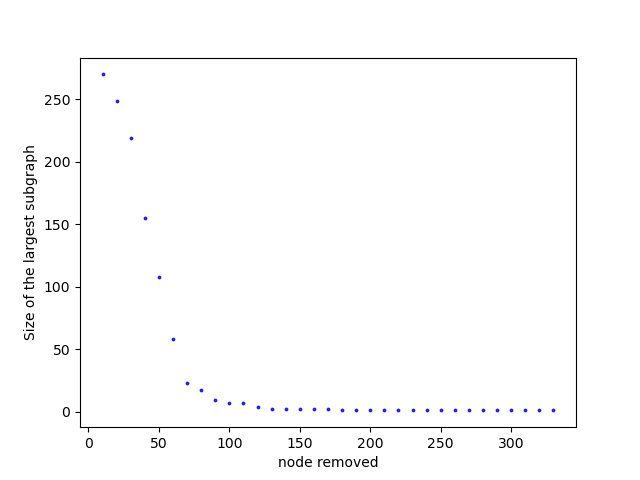
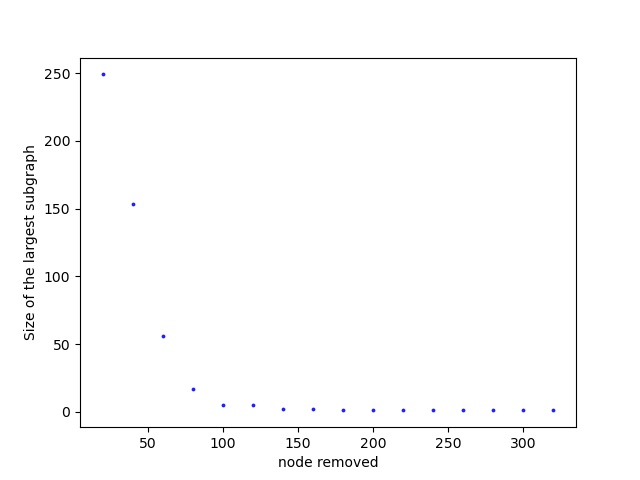
fix: pow-law visualization

diff --git a/5f57855a31279/index.html b/5f57855a31279/index.html
@@ -784,7 +784,7 @@
             xAxis: {
                 type: 'category',
                 boundaryGap: false,
-                data: [20, 40, 60, 80, 100, 120, 140, 160, 180, 200, 220, 240, 260, 280, 300, 320, 340, 360]
+                data: [1, 2, 3, 4, 5, 6, 7, 8, 9, 10, 11, 12, 13, 14, 15, 16, 17, 18, 19, 20, 21, 22, 23, 24, 25, 26, 27, 28, 29, 30, 31, 32, 33, 34, 35, 36, 37, 38, 39, 40, 41, 42, 43, 44, 45, 46, 47, 48, 49, 50, 51, 52, 53, 54, 55, 56, 57, 58, 59, 60, 61, 62, 63, 64, 65, 66, 67, 68, 69, 70, 71, 72, 73, 74, 75, 76, 77, 78, 79, 80, 81, 82, 83, 84, 85, 86, 87, 88, 89, 90, 91, 92, 93, 94, 95, 96, 97, 98, 99, 100, 101, 102, 103, 104, 105, 106, 107, 108, 109, 110, 111, 112, 113, 114, 115, 116, 117, 118, 119, 120, 121, 122, 123, 124, 125, 126, 127, 128, 129, 130, 131, 132, 133, 134, 135, 136, 137, 138, 139, 140, 141, 142, 143, 144, 145, 146, 147, 148, 149, 150, 151, 152, 153, 154, 155, 156, 157, 158, 159, 160, 161, 162, 163, 164, 165, 166, 167, 168, 169, 170, 171, 172, 173, 174, 175, 176, 177, 178, 179, 180, 181, 182, 183, 184, 185, 186, 187, 188, 189, 190, 191, 192, 193, 194, 195, 196, 197, 198, 199, 200, 201, 202, 203, 204, 205, 206, 207, 208, 209, 210, 211, 212, 213, 214, 215, 216, 217, 218, 219, 220, 221, 222, 223, 224, 225, 226, 227, 228, 229, 230, 231, 232, 233, 234, 235, 236, 237, 238, 239, 240, 241, 242, 243, 244, 245, 246, 247, 248, 249, 250, 251, 252, 253, 254, 255, 256, 257, 258, 259, 260, 261, 262, 263, 264, 265, 266, 267, 268, 269, 270, 271, 272, 273, 274, 275, 276, 277, 278, 279, 280, 281, 282, 283, 284, 285, 286, 287, 288, 289, 290, 291, 292, 293, 294, 295, 296, 297, 298, 299, 300, 301, 302, 303, 304, 305, 306, 307, 308, 309, 310, 311, 312, 313, 314, 315, 316, 317, 318, 319, 320, 321, 322, 323, 324, 325, 326, 327, 328, 329, 330, 331]
             },
             yAxis: {
                 type: 'value'
@@ -793,12 +793,12 @@
                 {
                     name: 'Random Attack',
                     type: 'line',
-                    data: [313, 293, 261, 242, 220, 178, 167, 149, 127, 99, 81, 67, 53, 43, 29, 17, 9, 1]
+                    data: [331, 330, 329, 328, 327, 326, 325, 324, 323, 321, 318, 317, 316, 315, 314, 313, 312, 311, 310, 309, 308, 307, 306, 305, 293, 292, 291, 290, 289, 288, 287, 286, 286, 285, 284, 283, 282, 281, 280, 275, 274, 273, 272, 271, 270, 269, 268, 267, 266, 265, 264, 263, 262, 261, 260, 259, 258, 257, 256, 255, 254, 253, 252, 251, 250, 249, 249, 248, 247, 246, 245, 244, 243, 242, 241, 240, 239, 238, 237, 236, 235, 234, 234, 234, 233, 232, 231, 230, 229, 228, 227, 226, 226, 225, 224, 223, 222, 221, 220, 219, 218, 217, 205, 204, 203, 202, 201, 200, 199, 198, 197, 196, 195, 194, 193, 192, 191, 190, 189, 185, 184, 183, 182, 181, 180, 179, 178, 177, 171, 170, 169, 168, 167, 166, 165, 164, 163, 162, 161, 160, 160, 159, 158, 157, 156, 155, 154, 154, 153, 152, 151, 150, 150, 149, 149, 149, 148, 147, 146, 145, 144, 143, 142, 141, 140, 139, 138, 137, 136, 135, 135, 133, 133, 132, 131, 130, 129, 128, 127, 127, 127, 127, 127, 126, 125, 125, 124, 120, 119, 119, 118, 117, 116, 116, 114, 113, 111, 110, 109, 108, 107, 107, 106, 105, 104, 103, 102, 101, 100, 99, 99, 98, 97, 96, 95, 95, 92, 90, 89, 87, 87, 86, 85, 84, 83, 82, 81, 80, 79, 79, 78, 77, 77, 77, 73, 73, 72, 71, 70, 69, 69, 69, 68, 68, 67, 66, 65, 64, 63, 63, 62, 62, 61, 61, 61, 60, 60, 59, 59, 58, 57, 55, 54, 53, 52, 52, 48, 46, 45, 44, 43, 40, 40, 40, 39, 38, 37, 37, 36, 35, 35, 34, 34, 34, 33, 33, 32, 31, 30, 29, 29, 29, 29, 28, 27, 26, 25, 25, 24, 21, 21, 20, 19, 19, 18, 17, 16, 16, 16, 15, 13, 12, 11, 11, 11, 10, 10, 7, 6, 6, 6, 5, 3, 3, 3, 2, 1, 1, 1, 1, 1]
                 },
                 {
                     name: 'Intentional Attack',
                     type: 'line',
-                    data: [249, 153, 56, 17, 5, 5, 2, 2, 1, 1, 1, 1, 1, 1, 1, 1]
+                    data: [329, 314, 311, 304, 296, 289, 287, 281, 277, 270, 269, 268, 266, 262, 261, 257, 253, 251, 250, 246, 245, 242, 238, 230, 226, 223, 222, 221, 220, 182, 180, 179, 178, 176, 175, 175, 174, 172, 150, 148, 147, 132, 129, 126, 122, 120, 116, 116, 69, 69, 69, 69, 69, 69, 68, 67, 65, 37, 37, 37, 37, 36, 36, 35, 23, 23, 23, 23, 20, 20, 20, 17, 17, 17, 17, 17, 17, 17, 14, 14, 9, 9, 9, 9, 9, 9, 9, 9, 8, 8, 7, 7, 7, 7, 7, 7, 7, 7, 7, 7, 7, 7, 7, 7, 7, 7, 5, 4, 4, 4, 4, 4, 3, 3, 3, 3, 3, 2, 2, 2, 2, 2, 2, 2, 2, 2, 2, 2, 2, 2, 2, 2, 2, 2, 2, 2, 2, 2, 2, 2, 2, 2, 2, 2, 2, 2, 2, 2, 1, 1, 1, 1, 1, 1, 1, 1, 1, 1, 1, 1, 1, 1, 1, 1, 1, 1, 1, 1, 1, 1, 1, 1, 1, 1, 1, 1, 1, 1, 1, 1, 1, 1, 1, 1, 1, 1, 1, 1, 1, 1, 1, 1, 1, 1, 1, 1, 1, 1, 1, 1, 1, 1, 1, 1, 1, 1, 1, 1, 1, 1, 1, 1, 1, 1, 1, 1, 1, 1, 1, 1, 1, 1, 1, 1, 1, 1, 1, 1, 1, 1, 1, 1, 1, 1, 1, 1, 1, 1, 1, 1, 1, 1, 1, 1, 1, 1, 1, 1, 1, 1, 1, 1, 1, 1, 1, 1, 1, 1, 1, 1, 1, 1, 1, 1, 1, 1, 1, 1, 1, 1, 1, 1, 1, 1, 1, 1, 1, 1, 1, 1, 1, 1, 1, 1, 1, 1, 1, 1, 1, 1, 1, 1, 1, 1, 1, 1, 1, 1, 1, 1, 1, 1, 1, 1, 1, 1, 1, 1, 1, 1, 1, 1, 1, 1, 1, 1, 1, 1, 1, 1, 1, 1, 1, 1, 1, 1, 1, 1, 1, 1, 1]
                 }
             ]
         };
@@ -826,7 +826,7 @@
             xAxis: {
                 type: 'category',
                 boundaryGap: false,
-                data: [20, 40, 60, 80, 100, 120, 140, 160, 180, 200, 220, 240, 260, 280, 300, 320, 340, 360]
+                data: [1, 2, 3, 4, 5, 6, 7, 8, 9, 10, 11, 12, 13, 14, 15, 16, 17, 18, 19, 20, 21, 22, 23, 24, 25, 26, 27, 28, 29, 30, 31, 32, 33, 34, 35, 36, 37, 38, 39, 40, 41, 42, 43, 44, 45, 46, 47, 48, 49, 50, 51, 52, 53, 54, 55, 56, 57, 58, 59, 60, 61, 62, 63, 64, 65, 66, 67, 68, 69, 70, 71, 72, 73, 74, 75, 76, 77, 78, 79, 80, 81, 82, 83, 84, 85, 86, 87, 88, 89, 90, 91, 92, 93, 94, 95, 96, 97, 98, 99, 100, 101, 102, 103, 104, 105, 106, 107, 108, 109, 110, 111, 112, 113, 114, 115, 116, 117, 118, 119, 120, 121, 122, 123, 124, 125, 126, 127, 128, 129, 130, 131, 132, 133, 134, 135, 136, 137, 138, 139, 140, 141, 142, 143, 144, 145, 146, 147, 148, 149, 150, 151, 152, 153, 154, 155, 156, 157, 158, 159, 160, 161, 162, 163, 164, 165, 166, 167, 168, 169, 170, 171, 172, 173, 174, 175, 176, 177, 178, 179, 180, 181, 182, 183, 184, 185, 186, 187, 188, 189, 190, 191, 192, 193, 194, 195, 196, 197, 198, 199, 200, 201, 202, 203, 204, 205, 206, 207, 208, 209, 210, 211, 212, 213, 214, 215, 216, 217, 218, 219, 220, 221, 222, 223, 224, 225, 226, 227, 228, 229, 230, 231, 232, 233, 234, 235, 236, 237, 238, 239, 240, 241, 242, 243, 244, 245, 246, 247, 248, 249, 250, 251, 252, 253, 254, 255, 256, 257, 258, 259, 260, 261, 262, 263, 264, 265, 266, 267, 268, 269, 270, 271, 272, 273, 274, 275, 276, 277, 278, 279, 280, 281, 282, 283, 284, 285, 286, 287, 288, 289, 290, 291, 292, 293, 294, 295, 296, 297, 298, 299, 300, 301, 302, 303, 304, 305, 306, 307, 308, 309, 310, 311, 312, 313, 314, 315, 316, 317, 318, 319, 320, 321, 322, 323, 324, 325, 326, 327, 328, 329, 330, 331]
             },
             yAxis: {
                 type: 'value'
@@ -835,12 +835,12 @@
                 {
                     name: 'Random Attack',
                     type: 'line',
-                    data: [2.7566969771442613, 2.7827154144653794, 2.8159740642499265, 2.7967490826789203, 2.8121627231216273, 2.600710975687171, 2.60435754996032, 2.623526210774533, 2.5988001499812525, 2.629148629148629, 2.623456790123457, 2.5834464043419265, 2.7060957910014514, 2.4562569213732006, 2.4334975369458127, 2.463235294117647, 1.8055555555555556, 0]
+                    data: [2.737324910738808, 2.7385649811181727, 2.7378975461487136, 2.733068546281793, 2.7349393069548413, 2.7375365738555923, 2.7394301994301995, 2.738179872338799, 2.7383997077091706, 2.7352414330218067, 2.74856655357816, 2.7516272012139122, 2.752903355435001, 2.7521989687594783, 2.7513685110193116, 2.7510035225690177, 2.7423530381729737, 2.739570583964319, 2.736715732331141, 2.7363089984449207, 2.734971868522357, 2.7375827638330033, 2.7388406728811745, 2.736432269197584, 2.626139604469587, 2.628395236077767, 2.620713354662875, 2.6214055601956807, 2.6198577470203768, 2.6182491289198606, 2.6166272751638604, 2.6174457121825543, 2.6174457121825543, 2.6177662466024216, 2.6186980540486737, 2.6176477959050697, 2.612528709522728, 2.6119217081850534, 2.606989247311828, 2.6087856668878566, 2.6099569530226465, 2.6147920706744237, 2.613550032559149, 2.611944786114528, 2.61872504474735, 2.6210952671586307, 2.622197998770194, 2.626453774886655, 2.6240601503759398, 2.627930245854774, 2.630141721396474, 2.6296113545990187, 2.630429060279021, 2.6314470969643384, 2.634125334125334, 2.635628984466194, 2.639157843935692, 2.6424793287937742, 2.6435049019607844, 2.6422109001080747, 2.643895303600884, 2.6510446075663467, 2.650509074811864, 2.6535458167330677, 2.65574297188755, 2.6568532193289287, 2.6568532193289287, 2.6570131905445997, 2.662980152068727, 2.659598473535756, 2.65536968885915, 2.6540511367469475, 2.649695609291569, 2.6452796543328416, 2.646887966804979, 2.6497907949790793, 2.6546534931964416, 2.6625536290465552, 2.661231495387256, 2.660692390912369, 2.659319876341153, 2.6575327390778036, 2.6575327390778036, 2.6575327390778036, 2.6618321740417343, 2.660620988207195, 2.6503293807641635, 2.6510347446364153, 2.649659082203325, 2.64185794883685, 2.644926123737866, 2.6434218289085547, 2.6434218289085547, 2.6496031746031745, 2.647501601537476, 2.6480022623520383, 2.6465288818229995, 2.651254627725216, 2.648194271481943, 2.6495747978718946, 2.6511224791781167, 2.6495562382659155, 2.6035389765662362, 2.599053414469236, 2.598644100863288, 2.594946061770356, 2.5931840796019903, 2.590854271356784, 2.58646769199533, 2.584063990155361, 2.5809074898995132, 2.578283621140764, 2.5825535289452817, 2.580043801079002, 2.577396373056995, 2.5789703315881325, 2.5782860292091487, 2.578724589250905, 2.5795902285263987, 2.578907168037603, 2.5769779044903776, 2.578394283312316, 2.58417825268654, 2.5849600982197667, 2.587957790192427, 2.5936224970183916, 2.5954421380054593, 2.593220338983051, 2.7605091159270727, 2.761851722937696, 2.770639616793463, 2.7738095238095237, 2.7726715244210376, 2.75947426067908, 2.7730968218773095, 2.786248690707766, 2.7735363175035976, 2.7828387393604785, 2.758229813664596, 2.7583333333333333, 2.7583333333333333, 2.7634742456810764, 2.762879948399581, 2.761228156132615, 2.7435897435897436, 2.730289065772937, 2.724471606824548, 2.724471606824548, 2.7233402132782936, 2.6914430115022654, 2.6907726269315675, 2.691454138702461, 2.691454138702461, 2.677126791220751, 2.677126791220751, 2.677126791220751, 2.6787093215664646, 2.677196906159724, 2.6747283892300424, 2.6765325670498084, 2.674825174825175, 2.6735940116221806, 2.686744580960943, 2.685410334346505, 2.6867420349434736, 2.687519549577729, 2.684121442928171, 2.6910691283812795, 2.6882352941176473, 2.686898839137645, 2.686898839137645, 2.6679197994987467, 2.6679197994987467, 2.6495489243580845, 2.646388725778039, 2.639117471675611, 2.6363856589147288, 2.6311515748031495, 2.631546056742907, 2.631546056742907, 2.631546056742907, 2.631546056742907, 2.631546056742907, 2.6415238095238096, 2.6394838709677417, 2.6394838709677417, 2.641096249672174, 2.584593837535014, 2.5878080045577554, 2.5878080045577554, 2.584963059539331, 2.5773651635720602, 2.583208395802099, 2.583208395802099, 2.5559695699425555, 2.5534134007585334, 2.5235053235053235, 2.525771476230192, 2.5336391437308867, 2.5384215991692627, 2.531652265914301, 2.531652265914301, 2.5275831087151843, 2.5294871794871794, 2.5263256161314414, 2.526936988387588, 2.5230052417006408, 2.512079207920792, 2.5206060606060605, 2.521129663986807, 2.521129663986807, 2.5095729013254786, 2.5060137457044673, 2.512061403508772, 2.508174692049272, 2.508174692049272, 2.5052556139512663, 2.4574282147315856, 2.4570990806945865, 2.426623897353649, 2.426623897353649, 2.4265389876880983, 2.4383753501400562, 2.4440619621342514, 2.452835733176609, 2.417946401686239, 2.401851851851852, 2.400632911392405, 2.394027913015255, 2.394027913015255, 2.387279387279387, 2.377306903622693, 2.377306903622693, 2.377306903622693, 2.375951293759513, 2.375951293759513, 2.3794992175273864, 2.37102615694165, 2.3697722567287784, 2.372549019607843, 2.372549019607843, 2.372549019607843, 2.3617208077260754, 2.3617208077260754, 2.3550429669832655, 2.372027972027972, 2.3826923076923077, 2.3586309523809526, 2.3538146441372247, 2.3538146441372247, 2.3278688524590163, 2.3278688524590163, 2.3327868852459015, 2.3327868852459015, 2.3327868852459015, 2.3180790960451976, 2.3180790960451976, 2.3173582700175337, 2.3173582700175337, 2.3290986085904417, 2.31265664160401, 2.2511784511784514, 2.2480782669461914, 2.2496371552975325, 2.23604826546003, 2.23604826546003, 2.202127659574468, 2.217391304347826, 2.2151515151515153, 2.207188160676533, 2.1915836101882613, 2.1525641025641025, 2.1525641025641025, 2.1525641025641025, 2.1578947368421053, 2.1664295874822193, 2.144144144144144, 2.144144144144144, 2.1666666666666665, 2.183193277310924, 2.183193277310924, 2.180035650623886, 2.180035650623886, 2.180035650623886, 2.1818181818181817, 2.1818181818181817, 2.1754032258064515, 2.1591397849462366, 2.1241379310344826, 2.184729064039409, 2.184729064039409, 2.184729064039409, 2.184729064039409, 2.201058201058201, 2.156695156695157, 2.1507692307692308, 2.1433333333333335, 2.1433333333333335, 2.1159420289855073, 1.9904761904761905, 1.9904761904761905, 1.9157894736842105, 1.894736842105263, 1.894736842105263, 1.908496732026144, 1.8823529411764706, 1.9333333333333333, 1.9333333333333333, 1.9333333333333333, 1.9142857142857144, 1.7820512820512822, 1.7272727272727273, 1.8, 1.8, 1.8, 1.7333333333333334, 1.7333333333333334, 1.5714285714285714, 1.5333333333333334, 1.5333333333333334, 1.5333333333333334, 1.6, 1.3333333333333333, 1.3333333333333333, 1.3333333333333333, 1.0, 0, 0, 0, 0, 0]
                 },
                 {
                     name: 'Intentional Attack',
                     type: 'line',
-                    data: [4.21693224510947, 6.643274853801169, 6.514935064935065, 3.801470588235294, 2.0, 2.0, 1.0, 1.0, 0, 0, 0, 0, 0, 0, 0, 0]
+                    data: [2.8456705463711174, 2.8759691499969477, 2.91083912457214, 2.935339586590238, 3.040815391662849, 3.0800413302575933, 3.1285543724568114, 3.1857142857142855, 3.2737927065348194, 3.331488365689109, 3.345059091161294, 3.4793727989267147, 3.506085969641084, 3.537685355795385, 3.573091659298556, 3.7266536964980546, 3.8457556935817805, 4.14594422310757, 4.194024096385542, 4.202190144350423, 4.225794580127133, 4.236651692328795, 4.269155763571251, 4.67624833871274, 4.738721730580138, 4.9474003151133195, 5.010068892421834, 5.096215549156725, 5.149896222498962, 4.72472831036367, 4.8283054003724395, 4.971125478626577, 5.250491969783534, 5.38038961038961, 6.01064039408867, 6.01064039408867, 6.172878878479835, 6.4209166326669385, 6.285369127516779, 6.929950358521787, 7.05302394930575, 6.721374045801527, 7.2046996124031, 7.160380952380953, 7.407261888632976, 7.847478991596638, 7.6140929535232384, 7.6140929535232384, 6.069053708439898, 6.069053708439898, 6.069053708439898, 6.069053708439898, 6.069053708439898, 6.069053708439898, 6.492537313432836, 6.498869289914066, 7.258173076923077, 6.123123123123123, 6.123123123123123, 6.123123123123123, 6.123123123123123, 6.534920634920635, 6.534920634920635, 6.650420168067227, 5.146245059288537, 5.146245059288537, 5.146245059288537, 5.146245059288537, 4.421052631578948, 4.421052631578948, 4.421052631578948, 3.801470588235294, 3.801470588235294, 3.801470588235294, 3.801470588235294, 3.801470588235294, 3.801470588235294, 3.801470588235294, 3.6043956043956045, 3.6043956043956045, 2.6666666666666665, 2.6666666666666665, 2.6666666666666665, 2.8333333333333335, 2.8333333333333335, 2.8333333333333335, 2.8333333333333335, 2.8333333333333335, 2.7142857142857144, 2.7142857142857144, 2.6666666666666665, 2.6666666666666665, 2.6666666666666665, 2.6666666666666665, 2.6666666666666665, 2.6666666666666665, 2.6666666666666665, 2.6666666666666665, 2.6666666666666665, 2.6666666666666665, 2.6666666666666665, 2.6666666666666665, 2.6666666666666665, 2.6666666666666665, 2.6666666666666665, 2.6666666666666665, 2.0, 1.6666666666666667, 1.6666666666666667, 1.6666666666666667, 1.6666666666666667, 1.6666666666666667, 1.3333333333333333, 1.3333333333333333, 1.3333333333333333, 1.3333333333333333, 1.3333333333333333, 1.0, 1.0, 1.0, 1.0, 1.0, 1.0, 1.0, 1.0, 1.0, 1.0, 1.0, 1.0, 1.0, 1.0, 1.0, 1.0, 1.0, 1.0, 1.0, 1.0, 1.0, 1.0, 1.0, 1.0, 1.0, 1.0, 1.0, 1.0, 1.0, 1.0, 1.0, 0, 0, 0, 0, 0, 0, 0, 0, 0, 0, 0, 0, 0, 0, 0, 0, 0, 0, 0, 0, 0, 0, 0, 0, 0, 0, 0, 0, 0, 0, 0, 0, 0, 0, 0, 0, 0, 0, 0, 0, 0, 0, 0, 0, 0, 0, 0, 0, 0, 0, 0, 0, 0, 0, 0, 0, 0, 0, 0, 0, 0, 0, 0, 0, 0, 0, 0, 0, 0, 0, 0, 0, 0, 0, 0, 0, 0, 0, 0, 0, 0, 0, 0, 0, 0, 0, 0, 0, 0, 0, 0, 0, 0, 0, 0, 0, 0, 0, 0, 0, 0, 0, 0, 0, 0, 0, 0, 0, 0, 0, 0, 0, 0, 0, 0, 0, 0, 0, 0, 0, 0, 0, 0, 0, 0, 0, 0, 0, 0, 0, 0, 0, 0, 0, 0, 0, 0, 0, 0, 0, 0, 0, 0, 0, 0, 0, 0, 0, 0, 0, 0, 0, 0, 0, 0, 0, 0, 0, 0, 0, 0, 0, 0, 0, 0, 0, 0, 0, 0, 0, 0, 0, 0, 0, 0, 0, 0, 0, 0, 0, 0, 0, 0]
                 }
             ]
         };
@@ -980,19 +980,21 @@
 
         var myChart = echarts.init(document.getElementById('power_law'));
         option_power = {
+            title: {
+                text: 'Power-Law'
+            },
             xAxis: {},
             yAxis: {},
             series: [{
                 symbolSize: 5,
-                data: [[0.0, 1.0986122886681098], [0.6931471805599453, 1.0986122886681098], [1.0986122886681098, 0.6931471805599453], [1.3862943611198906, 1.6094379124341003], [1.6094379124341003, 0.6931471805599453], [1.791759469228055, 1.0986122886681098], [1.9459101490553132, 1.0986122886681098], [2.0794415416798357, 3.367295829986474], [2.1972245773362196, 1.3862943611198906], [2.302585092994046, 1.3862943611198906], [2.3978952727983707, 1.0986122886681098], [2.4849066497880004, 1.0986122886681098], [2.5649493574615367, 2.6390573296152584], [2.6390573296152584, 0.0], [2.70805020110221, 0.0], [2.772588722239781, 0.6931471805599453], [2.833213344056216, 1.0986122886681098], [2.8903717578961645, 0.0], [2.9444389791664403, 1.0986122886681098], [2.995732273553991, 1.0986122886681098], [3.044522437723423, 0.0], [3.091042453358316, 0.6931471805599453], [3.1354942159291497, 0.6931471805599453], [3.1780538303479458, 0.6931471805599453], [3.2188758248682006, 0.0], [3.258096538021482, 2.0794415416798357], 
-[3.295836866004329, 0.0], [3.332204510175204, 0.6931471805599453], [3.367295829986474, 1.3862943611198906], [3.4011973816621555, 0.6931471805599453], [3.4339872044851463, 1.0986122886681098], [3.4657359027997265, 0.6931471805599453], [3.4965075614664802, 1.3862943611198906], [3.5263605246161616, 0.6931471805599453], [3.5553480614894135, 1.0986122886681098], [3.58351893845611, 1.0986122886681098], [3.6109179126442243, 0.6931471805599453], [3.6375861597263857, 1.0986122886681098], [3.6635616461296463, 1.0986122886681098], [3.6888794541139363, 1.9459101490553132], [3.713572066704308, 1.0986122886681098], [3.7376696182833684, 0.0], [3.7612001156935624, 0.0], [3.784189633918261, 0.0], [3.8066624897703196, 2.9444389791664403], [3.828641396489095, 2.0794415416798357], [3.8501476017100584, 4.04305126783455], [3.871201010907891, 1.0986122886681098], [3.8918202981106265, 1.3862943611198906], [3.912023005428146, 2.302585092994046], [3.9318256327243257, 1.3862943611198906], [3.9512437185814275, 0.0], [3.970291913552122, 1.6094379124341003], [3.9889840465642745, 1.9459101490553132], [4.007333185232471, 2.0794415416798357], [4.02535169073515, 1.791759469228055], [4.04305126783455, 1.3862943611198906], [4.060443010546419, 2.0794415416798357], [4.07753744390572, 2.302585092994046], [4.0943445622221, 2.0794415416798357], [4.110873864173311, 1.791759469228055], [4.127134385045092, 2.302585092994046], [4.143134726391533, 2.1972245773362196], [4.1588830833596715, 1.0986122886681098], [4.174387269895637, 3.713572066704308], [4.189654742026425, 1.3862943611198906], [4.204692619390966, 4.356708826689592], [4.219507705176107, 1.791759469228055], [4.23410650459726, 1.3862943611198906], [4.248495242049359, 1.0986122886681098], [4.2626798770413155, 2.1972245773362196], [4.276666119016055, 1.9459101490553132], [4.290459441148391, 1.791759469228055], [4.30406509320417, 1.6094379124341003], [4.31748811353631, 2.1972245773362196], [4.330733340286331, 1.791759469228055], [4.343805421853684, 1.3862943611198906], [4.356708826689592, 1.0986122886681098], [4.3694478524670215, 1.0986122886681098], [4.382026634673881, 2.302585092994046], [4.394449154672439, 1.6094379124341003], [4.406719247264253, 2.3978952727983707], [4.418840607796598, 2.70805020110221], [4.430816798843313, 0.6931471805599453], [4.442651256490317, 1.6094379124341003], [4.454347296253507, 1.0986122886681098], [4.465908118654584, 1.0986122886681098], [4.477336814478207, 0.0], [4.48863636973214, 0.0], [4.499809670330265, 2.1972245773362196], [4.51085950651685, 2.8903717578961645], [4.5217885770490405, 2.995732273553991], [4.532599493153256, 1.3862943611198906], [4.543294782270004, 3.5263605246161616], [4.553876891600541, 3.091042453358316], [4.564348191467836, 1.9459101490553132], [4.574710978503383, 1.0986122886681098], [4.584967478670572, 0.6931471805599453], [4.59511985013459, 2.1972245773362196], [4.605170185988092, 1.9459101490553132], [4.61512051684126, 2.6390573296152584], [4.624972813284271, 1.3862943611198906], [4.634728988229636, 0.6931471805599453], [4.6443908991413725, 1.0986122886681098], [4.653960350157523, 1.0986122886681098], [4.663439094112067, 1.791759469228055], [4.672828834461906, 0.6931471805599453], [4.68213122712422, 1.3862943611198906], [4.6913478822291435, 3.912023005428146], [4.700480365792417, 0.6931471805599453], [4.709530201312334, 1.9459101490553132], [4.718498871295094, 4.248495242049359], [4.727387818712341, 0.6931471805599453], [4.736198448394496, 0.0], [4.74493212836325, 0.6931471805599453], [4.7535901911063645, 1.791759469228055], [4.762173934797756, 0.0], [4.770684624465665, 4.9344739331306915], [4.77912349311153, 3.367295829986474], [4.787491742782046, 2.0794415416798357], [4.795790545596741, 0.0], [4.804021044733257, 0.0], [4.812184355372417, 3.258096538021482], [4.820281565605037, 0.6931471805599453], [4.8283137373023015, 2.70805020110221], [4.836281906951478, 2.0794415416798357], [4.844187086458591, 1.3862943611198906], [4.852030263919617, 2.1972245773362196], [4.859812404361672, 1.6094379124341003], [4.867534450455582, 2.1972245773362196], [4.875197323201151, 3.8066624897703196], 
-[4.882801922586371, 1.3862943611198906], [4.890349128221754, 2.70805020110221], [4.897839799950911, 0.6931471805599453], [4.90527477843843, 0.0], [4.912654885736052, 1.6094379124341003], [4.919980925828125, 2.302585092994046], [4.927253685157205, 1.0986122886681098], [4.9344739331306915, 2.0794415416798357], [4.941642422609304, 1.791759469228055], [4.948759890378168, 0.6931471805599453], [4.955827057601261, 2.833213344056216], [4.962844630259907, 2.5649493574615367], [4.969813299576001, 4.07753744390572], [4.976733742420574, 1.3862943611198906], [4.983606621708336, 3.912023005428146], [4.990432586778736, 4.204692619390966], [4.997212273764115, 1.791759469228055], [5.003946305945459, 1.9459101490553132], [5.0106352940962555, 3.828641396489095], [5.017279836814924, 1.6094379124341003], [5.0238805208462765, 4.543294782270004], [5.030437921392435, 2.1972245773362196], [5.0369526024136295, 1.3862943611198906], [5.043425116919247, 0.6931471805599453], [5.049856007249537, 0.0], [5.056245805348308, 2.1972245773362196], [5.062595033026967, 1.791759469228055], [5.0689042022202315, 3.332204510175204], [5.075173815233827, 0.6931471805599453], [5.081404364984463, 3.367295829986474], [5.087596335232384, 4.127134385045092], [5.093750200806762, 1.3862943611198906], [5.099866427824199, 1.0986122886681098], [5.10594547390058, 0.0], [5.111987788356544, 4.442651256490317], [5.117993812416755, 3.713572066704308], [5.123963979403259, 1.9459101490553132], [5.1298987149230735, 2.772588722239781], [5.135798437050262, 1.791759469228055], [5.14166355650266, 1.0986122886681098], [5.147494476813453, 3.5553480614894135], [5.153291594497779, 1.3862943611198906], [5.159055299214529, 3.970291913552122], [5.1647859739235145, 0.0], [5.170483995038151, 4.110873864173311], [5.176149732573829, 3.871201010907891], [5.181783550292085, 0.0], [5.187385805840755, 3.7376696182833684], [5.19295685089021, 0.0], [5.198497031265826, 2.0794415416798357], [5.204006687076795, 4.543294782270004], [5.209486152841421, 
-3.1354942159291497], [5.214935757608986, 1.3862943611198906], [5.220355825078324, 0.0], [5.225746673713202, 1.3862943611198906], [5.231108616854587, 0.0], [5.236441962829949, 0.0], [5.241747015059643, 2.8903717578961645], [5.247024072160486, 1.0986122886681098], [5.25227342804663, 1.6094379124341003], [5.2574953720277815, 2.302585092994046], [5.262690188904886, 0.0], [5.267858159063328, 0.0], [5.272999558563747, 0.6931471805599453], [5.278114659230517, 0.0], [5.2832037287379885, 2.995732273553991], [5.288267030694535, 2.4849066497880004], [5.293304824724492, 0.6931471805599453], [5.298317366548036, 0.0], [5.303304908059076, 4.219507705176107], [5.308267697401205, 2.9444389791664403], [5.313205979041787, 3.258096538021482], [5.318119993844216, 1.9459101490553132], [5.3230099791384085, 0.6931471805599453], [5.327876168789581, 1.791759469228055], [5.332718793265369, 0.6931471805599453], [5.337538079701318, 0.0], [5.342334251964811, 0.6931471805599453], [5.3471075307174685, 0.0], [5.351858133476067, 0.0], [5.356586274672012, 2.9444389791664403], [5.3612921657094255, 2.70805020110221], [5.365976015021851, 0.6931471805599453], [5.3706380281276624, 1.0986122886681098], [5.375278407684165, 2.772588722239781], [5.37989735354046, 4.02535169073515], [5.384495062789089, 2.8903717578961645], [5.389071729816501, 3.8918202981106265], [5.393627546352362, 1.0986122886681098], [5.3981627015177525, 3.912023005428146], [5.402677381872279, 2.302585092994046], [5.407171771460119, 0.6931471805599453], [5.4116460518550396, 1.3862943611198906], [5.41610040220442, 2.6390573296152584], [5.420534999272286, 1.0986122886681098], [5.424950017481403, 0.0], [5.429345628954441, 0.6931471805599453], [5.43372200355424, 1.9459101490553132], [5.438079308923196, 4.465908118654584], [5.442417710521793, 0.0], [5.44673737166631, 3.784189633918261], [5.4510384535657, 3.1354942159291497], [5.455321115357702, 0.6931471805599453], [5.459585514144159, 0.6931471805599453], [5.4638318050256105, 0.6931471805599453], [5.4680601411351315, 1.6094379124341003], [5.472270673671475, 0.0], [5.476463551931511, 2.302585092994046], [5.480638923341991, 2.0794415416798357], [5.484796933490655, 0.0], [5.488937726156687, 1.9459101490553132], [5.493061443340548, 1.0986122886681098], [5.497168225293202, 0.0], [5.501258210544727, 2.833213344056216], [5.5053315359323625, 3.1354942159291497], [5.5093883366279774, 0.0], [5.5134287461649825, 4.07753744390572], [5.517452896464707, 2.1972245773362196], [5.521460917862246, 2.6390573296152584], [5.5254529391317835, 1.9459101490553132], [5.529429087511423, 1.3862943611198906], [5.53338948872752, 3.091042453358316], [5.537334267018537, 1.791759469228055], [5.541263545158426, 4.61512051684126], [5.545177444479562, 2.833213344056216], [5.54907608489522, 0.0], [5.552959584921617, 4.0943445622221], [5.556828061699537, 1.3862943611198906], [5.560681631015528, 2.3978952727983707], [5.564520407322694, 4.770684624465665], [5.568344503761097, 2.5649493574615367], [5.572154032177765, 3.58351893845611], [5.575949103146316, 0.0], [5.579729825986222, 0.0], [5.583496308781699, 1.9459101490553132], [5.58724865840025, 1.9459101490553132], [5.5909869805108565, 0.0], [5.594711379601839, 0.6931471805599453], [5.598421958998375, 0.6931471805599453], [5.602118820879701, 2.1972245773362196], [5.605802066295998, 1.6094379124341003], [5.60947179518496, 2.833213344056216], [5.6131281063880705, 2.5649493574615367], [5.616771097666572, 1.791759469228055], [5.62040086571715, 2.833213344056216], [5.6240175061873385, 0.0], [5.627621113690637, 0.0], [5.631211781821365, 0.0], [5.634789603169249, 0.0], [5.6383546693358316], [5.652489180268651, 0.0], [5.655991810819852, 2.302585092994046], [5.659482215759621, 1.6094379124341003], [5.662960480135946, 2.8903717578961645], [5.666426688112432, 0.0], [5.66988092298052, 0.6931471805599453], [5.673323267171493, 0.0], [5.676753802268282, 3.4965075614664802], [5.680172609017068, 4.127134385045092], [5.683579767338681, 0.0], [5.68697535633982, 0.6931471805599453], [5.69035945432406, 3.295836866004329], [5.6937321388027, 2.9444389791664403], [5.697093486505405, 1.9459101490553132], [5.700443573390687, 4.02535169073515], [5.703782474656201, 2.0794415416798357], [5.707110264748875, 3.7376696182833684], [5.71042701737487, 1.0986122886681098], [5.713732805509369, 1.0986122886681098], [5.717027701406222, 0.0], [5.720311776607412, 2.9444389791664403], [5.723585101952381, 3.295836866004329], [5.726847747587197, 3.367295829986474], [5.730099782973574, 1.6094379124341003], [5.733341276897746, 0.6931471805599453], [5.736572297479192, 3.5263605246161616], [5.739792912179234, 3.8501476017100584], [5.7430031878094825, 1.0986122886681098], [5.746203190540153, 3.1780538303479458], [5.749392985908253, 1.0986122886681098], [5.752572638825633, 1.0986122886681098], [5.755742213586912, 2.302585092994046], [5.75890177387728, 1.3862943611198906], [5.762051382780177, 1.791759469228055], [5.765191102784844, 1.0986122886681098], [5.768320995793772, 1.3862943611198906], [5.771441123130016, 3.044522437723423], [5.7745515455444085, 2.1972245773362196], [5.777652323222656, 0.0], [5.780743515792329, 1.6094379124341003], [5.783825182329737, 2.0794415416798357], [5.786897381366708, 0.0], [5.7899601708972535, 1.3862943611198906], [5.793013608384144, 0.6931471805599453], [5.796057750765372, 1.3862943611198906], [5.799092654460526, 0.6931471805599453], [5.802118375377063, 0.6931471805599453], [5.805134968916488, 0.0]],
+                data: [[0.0, 4.007333185232471], [0.6931471805599453, 3.7376696182833684], [1.0986122886681098, 3.6635616461296463], [1.3862943611198906, 3.332204510175204], [1.6094379124341003, 2.6390573296152584], [1.791759469228055, 2.70805020110221], [1.9459101490553132, 2.70805020110221], [2.0794415416798357, 2.4849066497880004], [2.1972245773362196, 2.5649493574615367], [2.302585092994046, 2.3978952727983707], [2.3978952727983707, 0.6931471805599453], [2.4849066497880004, 0.0], [2.5649493574615367, 1.0986122886681098], [2.6390573296152584, 1.3862943611198906], [2.70805020110221, 1.3862943611198906], [2.772588722239781, 0.6931471805599453], [2.833213344056216, 1.6094379124341003], [2.8903717578961645, 1.3862943611198906], [2.9444389791664403, 1.6094379124341003], [2.995732273553991, 0.6931471805599453], [3.044522437723423, 0.0], [3.091042453358316, 1.0986122886681098], [3.1354942159291497, 1.0986122886681098], [3.1780538303479458, 0.0], [3.2188758248682006, 0.0], [3.258096538021482, 0.6931471805599453], [3.295836866004329, 0.6931471805599453], [3.332204510175204, 0.0], [3.367295829986474, 1.3862943611198906], [3.4011973816621555, 0.0], [3.4339872044851463, 0.0], [3.4657359027997265, 0.0], [3.4965075614664802, 0.0], [3.5263605246161616, 0.6931471805599453], [3.5553480614894135, 0.0], [3.58351893845611, 0.0], [3.6109179126442243, 0.0], [3.6375861597263857, 0.0], [3.6635616461296463, 0.0], [3.6888794541139363, 0.0], [3.713572066704308, 0.6931471805599453], [3.7376696182833684, 0.6931471805599453], [3.7612001156935624, 0.0], [3.784189633918261, 0.0], [3.8066624897703196, 0.0], [3.828641396489095, 0.0], [3.8501476017100584, 0.0], [3.871201010907891, 0.0], [3.8918202981106265, 0.0], [3.912023005428146, 1.0986122886681098], [3.9318256327243257, 0.0], [3.9512437185814275, 0.0], [3.970291913552122, 0.0], [3.9889840465642745, 0.0], [4.007333185232471, 0.0], [4.02535169073515, 0.6931471805599453], [4.04305126783455, 0.0], [4.060443010546419, 0.0], [4.07753744390572, 0.6931471805599453], [4.0943445622221, 0.0], [4.110873864173311, 0.0], [4.127134385045092, 0.6931471805599453], [4.143134726391533, 0.0], [4.1588830833596715, 0.0], [4.174387269895637, 0.0], [4.189654742026425, 0.0], [4.204692619390966, 0.0], [4.219507705176107, 0.0], 
+[4.23410650459726, 0.0], [4.248495242049359, 0.0], [4.2626798770413155, 0.0], [4.276666119016055, 0.0], [4.290459441148391, 0.0], [4.30406509320417, 0.0], [4.31748811353631, 0.0], [4.330733340286331, 0.0], [4.343805421853684, 0.0], [4.356708826689592, 0.0], [4.3694478524670215, 0.0], [4.382026634673881, 0.0], [4.394449154672439, 0.0], [4.406719247264253, 0.0], [4.418840607796598, 0.0], [4.430816798843313, 0.0], [4.442651256490317, 0.0], [4.454347296253507, 0.0], [4.465908118654584, 0.0], [4.477336814478207, 0.0], [4.48863636973214, 0.0], [4.499809670330265, 0.0], [4.51085950651685, 0.0], [4.5217885770490405, 0.0], [4.532599493153256, 0.0], [4.543294782270004, 0.6931471805599453], [4.553876891600541, 0.0], [4.564348191467836, 0.0], [4.574710978503383, 0.0], [4.584967478670572, 0.0], [4.59511985013459, 0.0], [4.605170185988092, 0.0], [4.61512051684126, 0.0], [4.624972813284271, 0.0], [4.634728988229636, 0.0], [4.6443908991413725, 0.0], [4.653960350157523, 0.0], [4.663439094112067, 0.0], 
+[4.672828834461906, 0.0], [4.68213122712422, 0.0], [4.6913478822291435, 0.0], [4.700480365792417, 0.0], [4.709530201312334, 0.0], [4.718498871295094, 0.0], [4.727387818712341, 0.0], [4.736198448394496, 0.0], [4.74493212836325, 0.0], [4.7535901911063645, 0.0], [4.762173934797756, 0.0], [4.770684624465665, 0.0], [4.77912349311153, 0.0], [4.787491742782046, 0.0], [4.795790545596741, 0.0], [4.804021044733257, 0.0], [4.812184355372417, 0.0], [4.820281565605037, 0.0], [4.8283137373023015, 0.0], [4.836281906951478, 0.0], [4.844187086458591, 0.0], [4.852030263919617, 0.0], [4.859812404361672, 0.0], [4.867534450455582, 0.0], [4.875197323201151, 0.0], [4.882801922586371, 0.0], [4.890349128221754, 0.0], [4.897839799950911, 0.0], [4.90527477843843, 0.0], [4.912654885736052, 0.0], [4.919980925828125, 0.0], [4.927253685157205, 0.0], [4.9344739331306915, 0.0]],
                 type: 'scatter'
             },
             {
                 type: 'line',
-                data: [[0.0, 0.7335000995196468], [5.805134968916488, 1.9141821962597714]]
+                data: [[0.0, 3.41267567113656], [4.9344739331306915, -0.37725109776822885]]
             }
             ]
         };

diff --git a/code/attack_robustness.py b/code/attack_robustness.py
@@ -3,6 +3,7 @@ import matplotlib.pyplot as plt
 import model_property
 import numpy as np
 import random
+import json
 import os
 
 
@@ -82,6 +83,13 @@ def get_max_degree_node(matrix, top=1):
     return [index for index, value in node_degree[:top]]
 
 
+def save_as_json(information, filename):
+    ''' 保存成 json 文件 '''
+    json_str = json.dumps(information, ensure_ascii=False, indent=4)
+    with open(os.path.join('../results', filename), 'w') as f:
+        f.write(json_str)
+
+
 def draw(x, y, title, label, filename, color='blue'):
     ''' 可视化 '''
     assert len(label) == 2
@@ -98,10 +106,31 @@ if __name__ == '__main__':
     filename = os.path.join(root, 'inf-USAir97.mtx')
     adjacent, freq, freq_normalized = model_property.read_file(filename)
     # 随机删除
-    # removed_num, subgraph_size, subgraph_length = attack(adjacent, random_attack=True, node_skip=10)
-    # draw(removed_num, subgraph_size, 'Random', ('node removed', 'Size of the largest subgraph'), '../results/Random_attack_Size.jpg')
-    # draw(removed_num, subgraph_length, 'Random', ('node removed', 'Average path length'), '../results/Random_attack_Length.jpg')
+    removed_num, subgraph_size, subgraph_length = attack(adjacent, random_attack=True, node_skip=1)
+    draw(removed_num, subgraph_size, 'Random', ('node removed', 'Size of the largest subgraph'), '../results/Random_attack_Size.jpg')
+    draw(removed_num, subgraph_length, 'Random', ('node removed', 'Average path length'), '../results/Random_attack_Length.jpg')
+
+    print(removed_num)
+    print(subgraph_size)
+    print(subgraph_length)
+    save_as_json({
+        'removed_num': removed_num,
+        'subgraph_size': subgraph_size,
+        'subgraph_length': subgraph_length
+    }, 'Random-Attack.json')
+
+
     # 选取度大的点删除
-    removed_num, subgraph_size, subgraph_length = attack(adjacent, random_attack=False, node_skip=10)
+    removed_num, subgraph_size, subgraph_length = attack(adjacent, random_attack=False, node_skip=1)
     draw(removed_num, subgraph_size, 'Intentional', ('node removed', 'Size of the largest subgraph'), '../results/Intentional_attack_Size.jpg')
     draw(removed_num, subgraph_length, 'Intentional', ('node removed', 'Average path length'), '../results/Intentional_attack_Length.jpg')
+
+    print(removed_num)
+    print(subgraph_size)
+    print(subgraph_length)
+    save_as_json({
+        'removed_num': removed_num,
+        'subgraph_size': subgraph_size,
+        'subgraph_length': subgraph_length
+    }, 'Intentional-Attack.json')
+

diff --git a/code/model_property.py b/code/model_property.py
@@ -1,5 +1,7 @@
 import math
 import numpy as np
+from collections import Counter
+from scipy.optimize import curve_fit
 from matplotlib import pyplot as plt
 import os
 
@@ -134,7 +136,12 @@ def fitting_func(x, r, b):
 
 def draw_degree_with_curve_fitting(inp):
     # 模拟power_law定律
-    new_inp = [element for element in inp if element >= 1]
+    new_inp = []
+    for ele in inp:
+        if ele >= 1:
+            new_inp.append(ele)
+        else:
+            new_inp.append(1)
     y = np.array(new_inp)
     y = np.log(y)
     x = np.array([i for i in range(1, len(new_inp)+1)])
@@ -143,8 +150,16 @@ def draw_degree_with_curve_fitting(inp):
     plt.xlabel("Logged-Degree")
     plt.ylabel("Logged-Nodes Of This Degree")
     plt.scatter(x, y)
+    result = []
+    for x_x, y_y in zip(x, y):
+        result.append([x_x, y_y])
+    print(f'result: {result}')
     popt, pcov = curve_fit(fitting_func, x, y, maxfev=1000000)
     yy = [fitting_func(i, popt[0], popt[1]) for i in x]
+    # result = []
+    # for x_x, y_y in zip(x, yy):
+    #     result.append([x_x, y_y])
+    # print(f'result: {result}')
     plt.plot(x, yy, 'r-', label='fit')
     print('coeff r= ', popt[0], ' coeff b= ', popt[1])
     plt.show()
@@ -220,7 +235,15 @@ if __name__ == '__main__':
     adjacent, freq, freq_normalized = read_file(filename)
     #np.save('adjacent_matrix_without_distance.npy',adjacent)
     #np.save('freq_matrix_with_normalization.npy',freq)
-    diameter, avg_path_length = get_avg_path_length(adjacent)
-    cluster_result = clustering_coeff(adjacent)
+    # diameter, avg_path_length = get_avg_path_length(adjacent)
+    # cluster_result = clustering_coeff(adjacent)
     degree_result = get_degree(adjacent)
-    draw_degree(degree_result[3], degree_result[1])
+    max_degree = max(degree_result[3])
+    degree_distribution = Counter(degree_result[3])
+    degree_dict = {}
+    for i in range(1, max_degree+1):
+        num = degree_distribution.get(i)
+        degree_dict[i] = num if num is not None else 0
+    print(degree_dict.values())
+    # draw_degree(degree_result[3], degree_result[1])
+    draw_degree_with_curve_fitting(degree_result[4])

diff --git a/code/core.py b/code/core.py
@@ -70,6 +70,8 @@ def draw_kcores(highest_k, k_cores):
     for j in x:
         y.append(len(k_cores[j]))
     y = np.array(y)
+    print(f'x: {list(x)}')
+    print(f'y: {list(y)}')
     plt.title("Coreness Distribution")
     plt.xlabel("Coreness")
     plt.ylabel("Node Number")
@@ -88,5 +90,5 @@ if __name__ == "__main__":
             graph = addEdge(graph, nodes[0], nodes[1])
     highest_k, k_cores = find_kcores(graph)
     draw_kcores(highest_k, k_cores)
-    print(highest_k)
-    print((k_cores[26]))
+    # print(highest_k)
+    # print((k_cores[26]))
